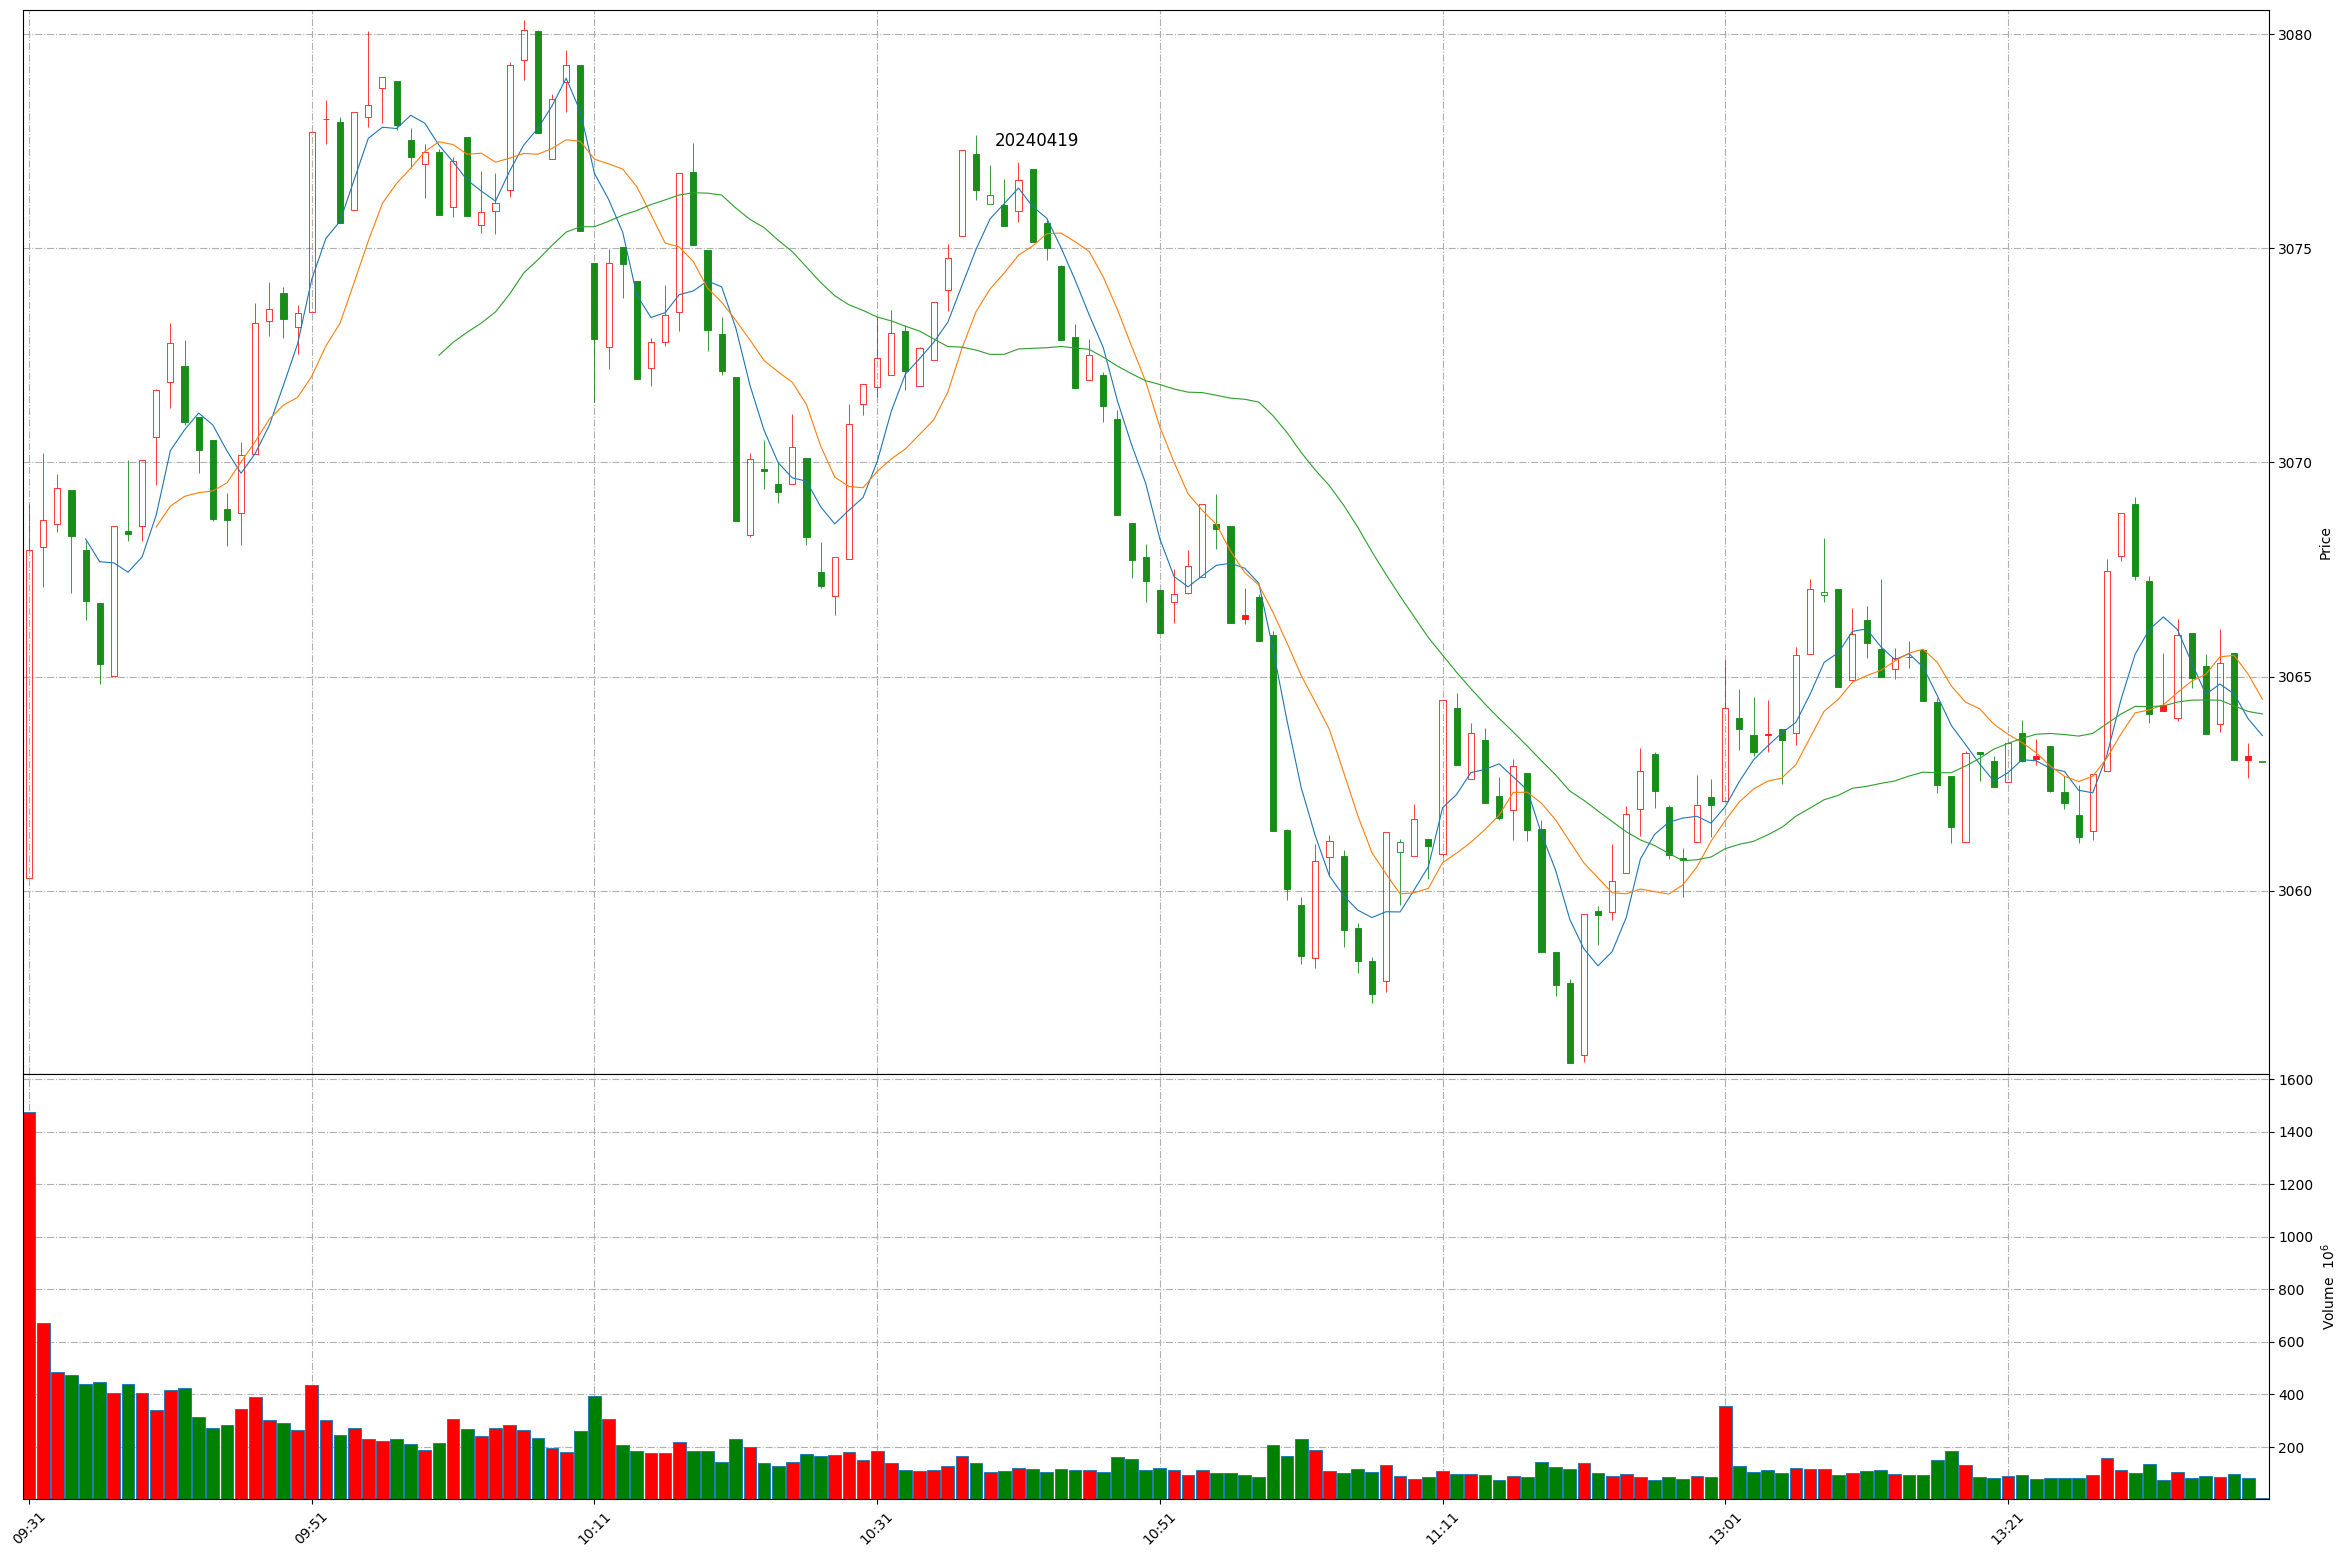
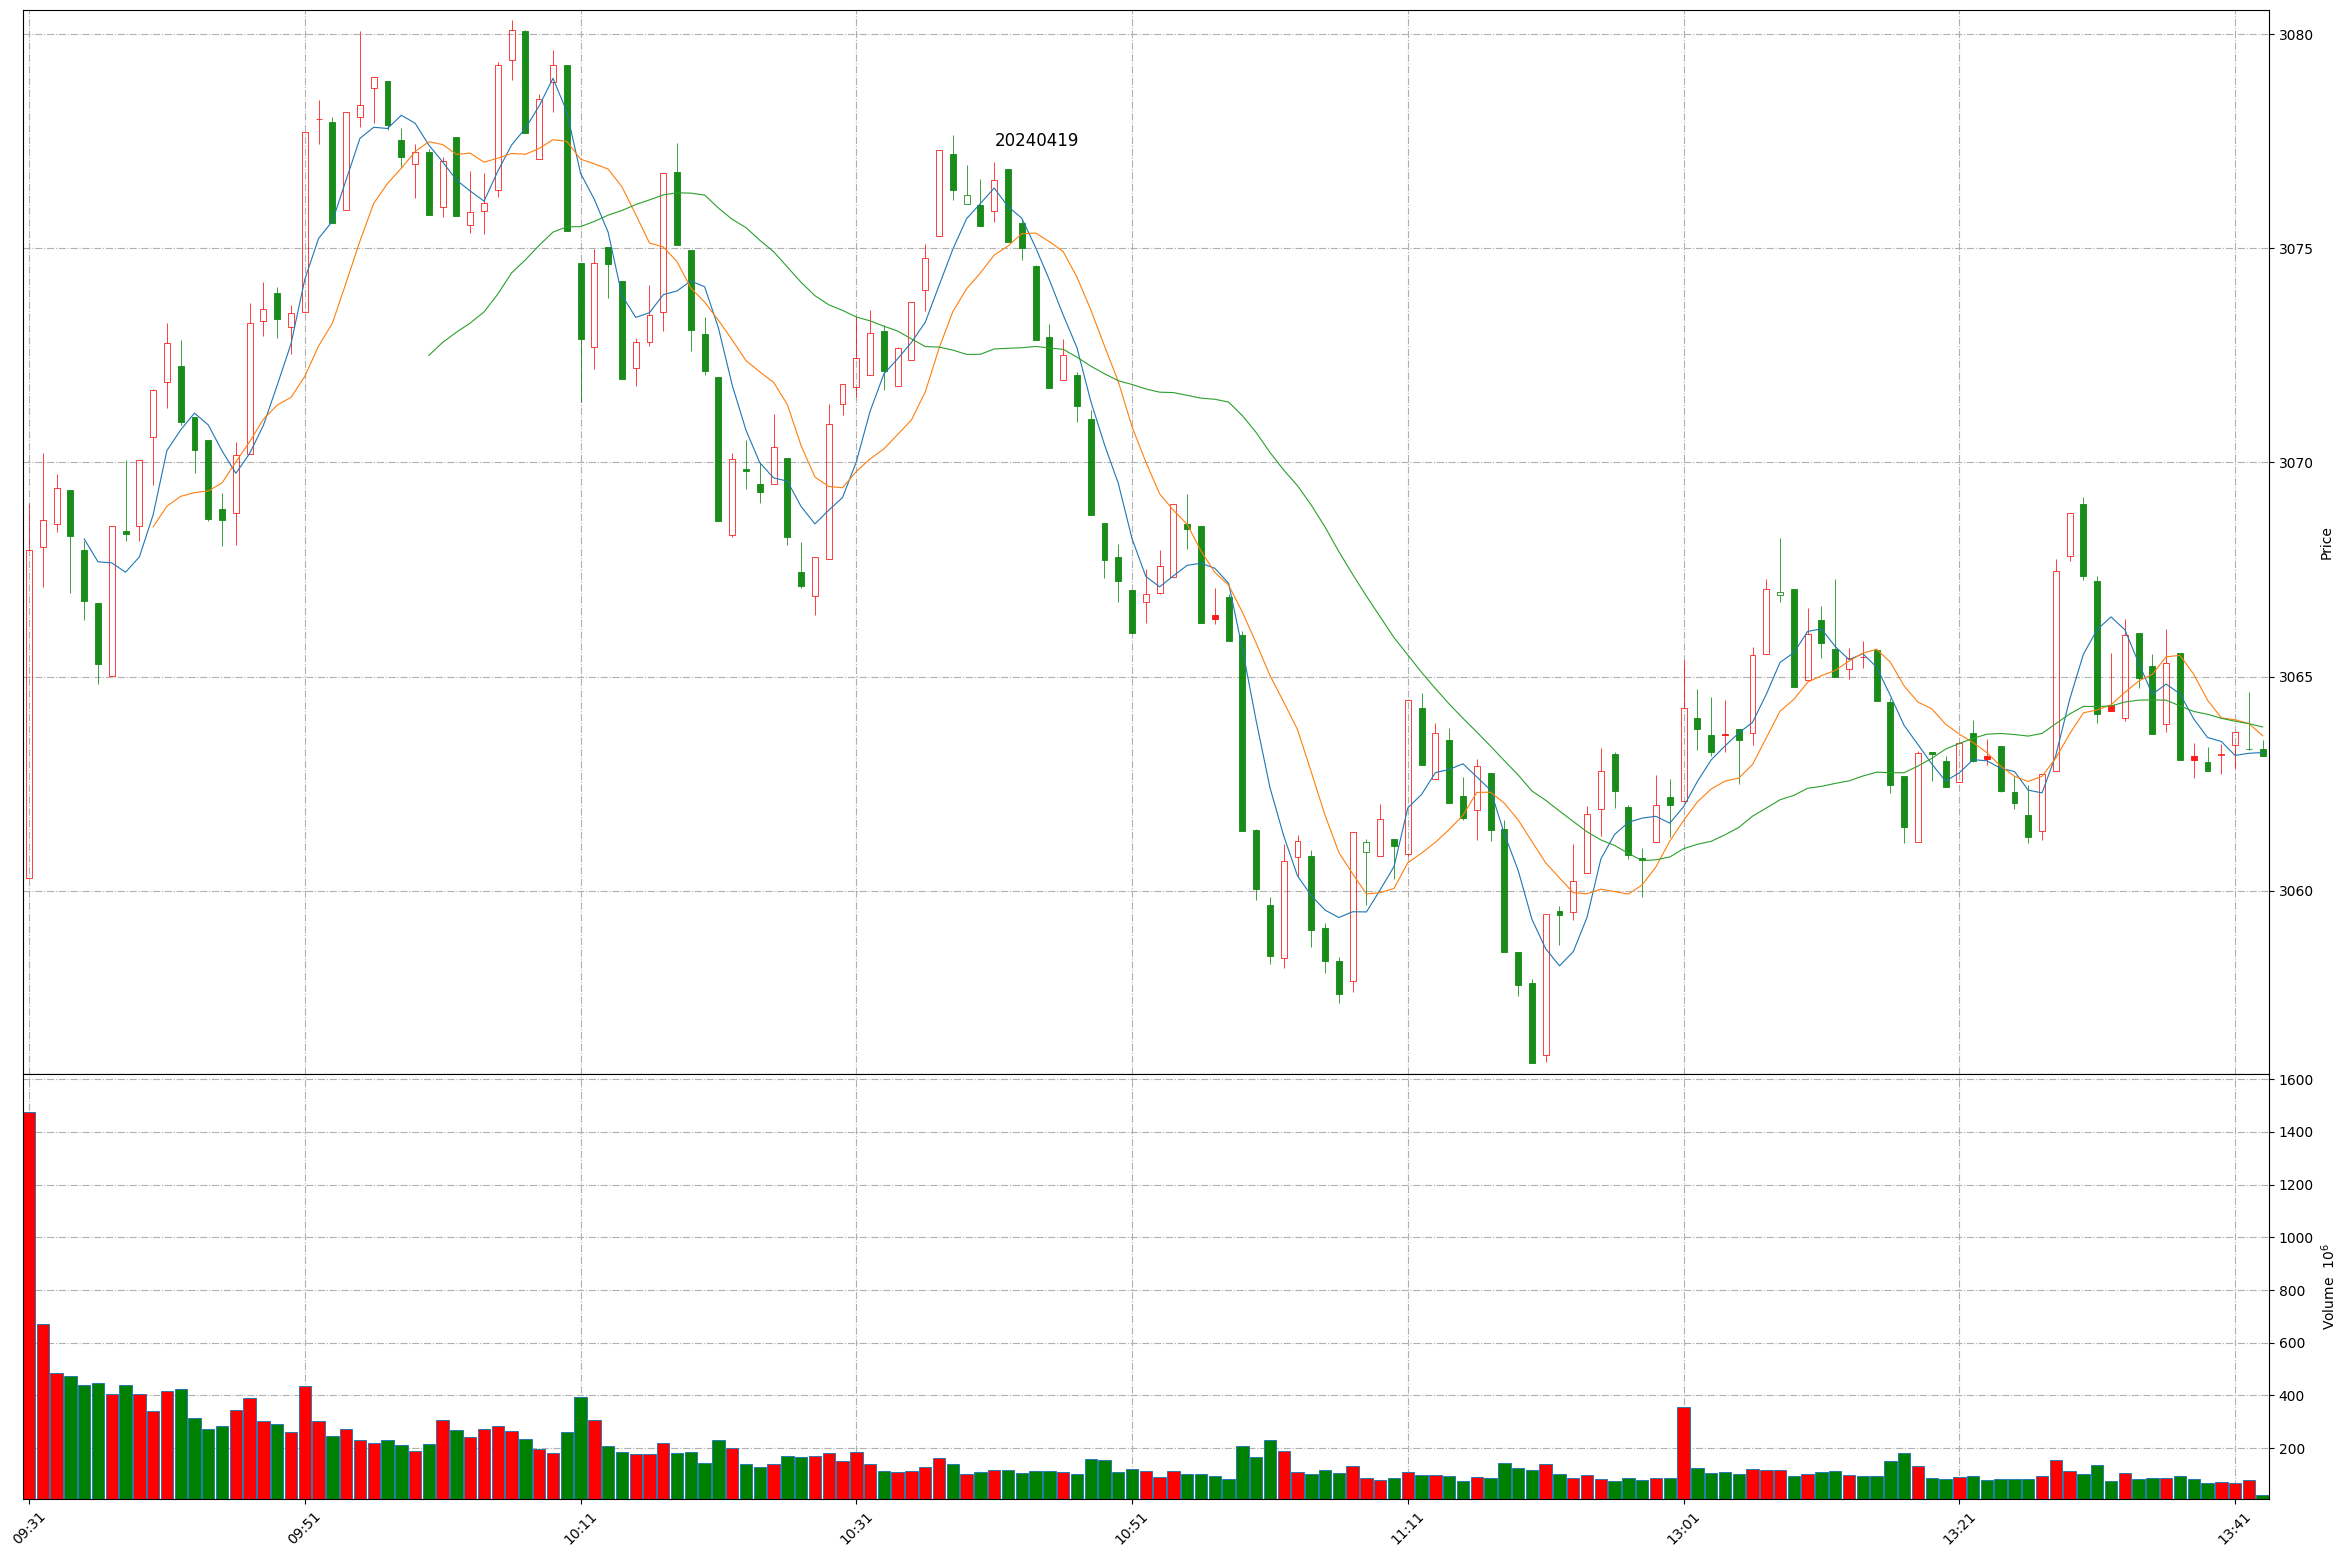
Github action update at 2024-04-19 13:42:31.

Changed region(s): [[0.0933, 0.0308, 0.9642, 0.6782], [0.0311, 0.894, 0.9642, 0.9865], [0.0311, 0.2158, 0.1244, 0.4316]]

diff --git a/README.md b/README.md
@@ -1,11 +1,11 @@
 
 # Daily-A-share-market-quotes 每日 A 股指数（5min 更新）- 20240419
 
-### 上证指数 20240419 13:38
+### 上证指数 20240419 13:42
 ![](./fig/2024/4/20240419-sh000001.png)
 
-### 深证成指 20240419 13:38
+### 深证成指 20240419 13:42
 ![](./fig/2024/4/20240419-sz399001.png)
 
-### 北证50 20240419 13:38
+### 北证50 20240419 13:42
 ![](./fig/2024/4/20240419-bj899050.png)
